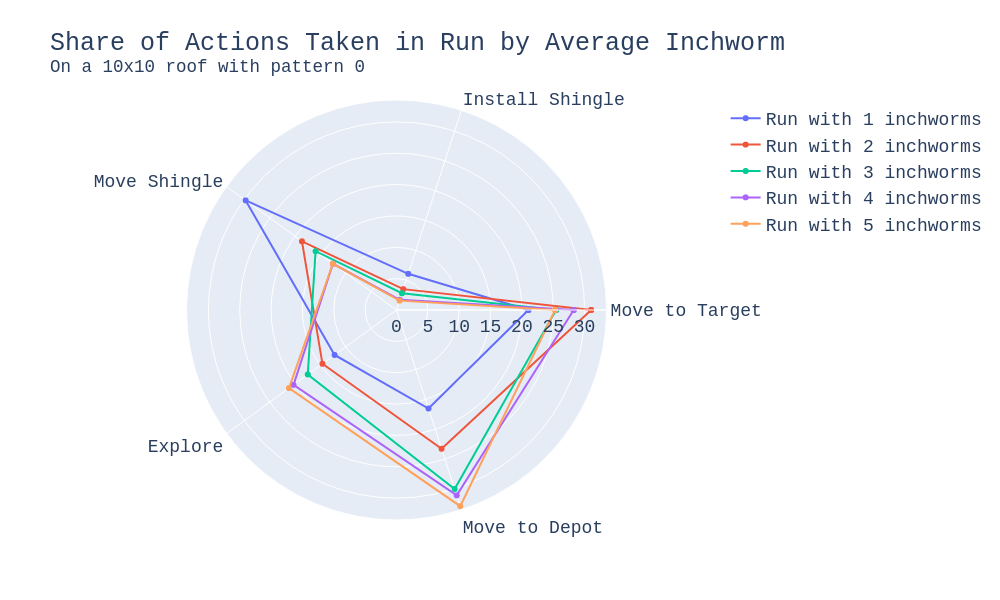
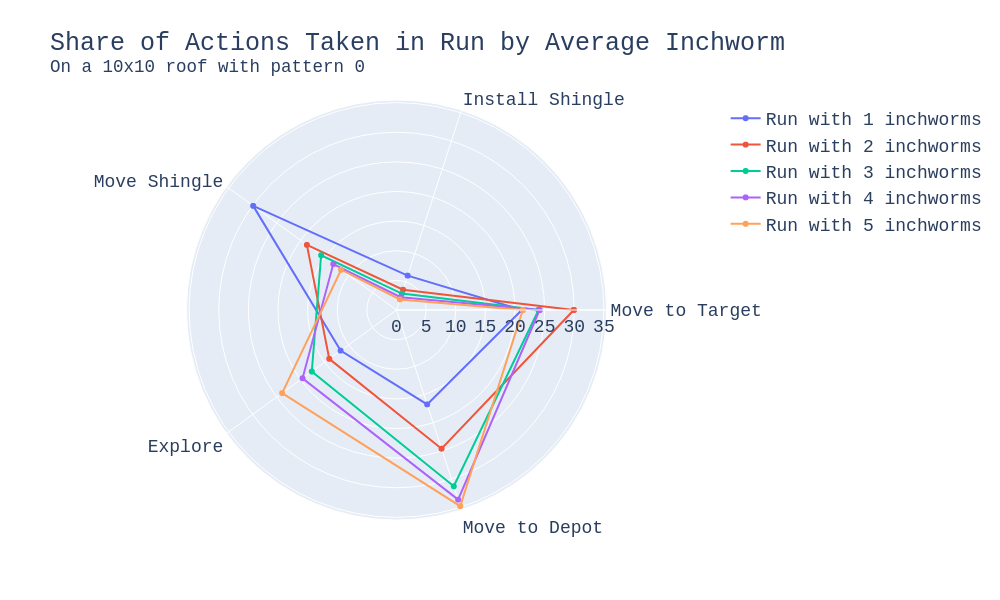
optimized & created graphs

Changed region(s): [[0.248, 0.33, 0.62, 0.84]]

diff --git a/inchworm_algo/src/inchworm.py b/inchworm_algo/src/inchworm.py
@@ -682,13 +682,17 @@ class Inchworm():
             val = self.get_shingle_state(coord[0], coord[1])
             # rospy.loginfo(val)
             if (val != ShingleStatus.INSTALLED and i - 1 > -1 and 
-                ((self.get_shingle_state(self.shingle_order[i - 1][0], self.shingle_order[i - 1][1]) == ShingleStatus.INSTALLED))):# or i >= self.most_recent_target)):
+                ((self.get_shingle_state(self.shingle_order[i - 1][0], self.shingle_order[i - 1][1]) == ShingleStatus.INSTALLED) or i == self.most_recent_target)):
                 rospy.loginfo(f"inchworm {self.id} has possible target {coord}")
                 if self.placed_shingle_is_valid(coord) == True:
                     x_coord = coord[0]
                     y_coord = coord[1]
-                    # self.most_recent_target = i
-                    return coord
+                    if self.most_recent_target < i:
+                        self.most_recent_target = i
+                else:
+                    self.set_shingle_state(coord[0], coord[1], ShingleStatus.INSTALLED)
+                    self.rebuild_roof()
+                    # return coord
                     # if self.pattern == Pattern.DIAGONAL:
                     #     return [x_coord, y_coord]
                 # rospy.loginfo(

diff --git a/inchworm_algo/src/create_graph.py b/inchworm_algo/src/create_graph.py
@@ -4,7 +4,7 @@ import csv, sys, pandas as pd
 import matplotlib.pyplot as plt
 import plotly.graph_objects as go
 
-move_to_days = (16/3600)/24
+move_to_days = (16/3600)
 WIDTH = 10
 HEIGHT = 10
 pattern = 0
@@ -89,9 +89,9 @@ for run in data:
 print(average_data)
 
 plt.scatter(inchworms, move_data)
-plt.xlabel("Inchworm count")
-plt.ylabel("Total estimated days")
-plt.title(f"Time to shingle a {WIDTH}x{HEIGHT} roof with pattern {pattern}")
+plt.xlabel("Inchworm Count")
+plt.ylabel("Total Estimated Hours Until Compilation")
+plt.title(f"Time to Shingle a {WIDTH}x{HEIGHT} Roof with Pattern {pattern}")
 
 plt.savefig(f"{WIDTH}x{HEIGHT}_{pattern}.png")
 

diff --git a/inchworm_algo/src/test_algo_sim.py b/inchworm_algo/src/test_algo_sim.py
@@ -70,7 +70,7 @@ def main():
     if running < batch_size:
       print(f"Running test for inchworm count of {count}")
 
-      cli_args = [f"roof_width:={WIDTH}", f"roof_height:={HEIGHT}", f"rate:={RATE}", f"pattern:={pattern}", f"use_gui:=False", f"inchworm_count:={count}", f"name_space:={WIDTH}x{HEIGHT}_{pattern}_{count}"]
+      cli_args = [f"roof_width:={WIDTH}", f"roof_height:={HEIGHT}", f"rate:={RATE}", f"pattern:={pattern}", f"use_gui:=True", f"inchworm_count:={count}", f"name_space:={WIDTH}x{HEIGHT}_{pattern}_{count}"]
 
 
       launch_file = [(roslaunch.rlutil.resolve_launch_arguments(launch_path + cli_args)[0], cli_args)]
